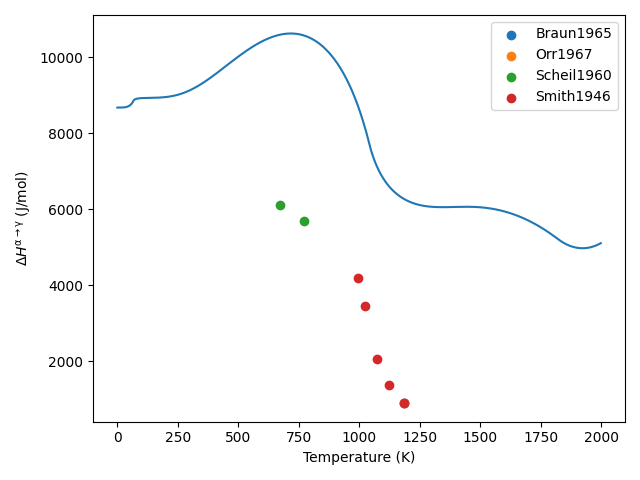
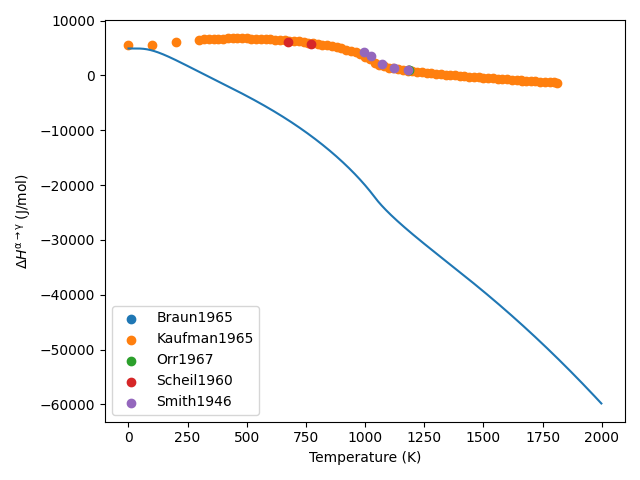
More work on the two-state energy model.

diff --git a/libreCalphad/models/segmented_regression.py b/libreCalphad/models/segmented_regression.py
@@ -57,16 +57,22 @@ aD = 5.133e-2
 
 
 def _twostate_Cp(T_arr, dE):
-    # assume for now dE is a f(T)
+    # Following the approach from Becker2013
     g0 = 1
     g1 = 1
 
     def _calc_twostate_Cp(T, dE):
+        if T == 0:
+            return 0
         if isinstance(dE, list):
-            dE = np.sum([dE[i] * T**i for i in range(len(dE))])
-        return (R * (dE / (R * T)) ** 2 * g0 / g1 * np.exp(dE / (R * T))) / (
-            g0 / g1 * np.exp(dE / (R * T)) + 1
-        ) ** 2
+            dE_sum = np.sum([dE[i] * T**i for i in range(len(dE))])
+            ddEdT = np.sum(
+                [dE[i + 1] * i * T ** (i - 1) for i in range(-1, len(dE) - 1)]
+            )
+            dH = -(T**2) * ddEdT
+            nom = R * (dE_sum / (R * T)) ** 2 * g0 / g1 * np.exp(dE_sum / (R * T))
+            num = (g0 / g1 * np.exp(dE_sum / (R * T)) + 1) ** 2
+            return nom / num
 
     if isinstance(T_arr, (int, float)):
         ret_arr = _calc_twostate_Cp(T_arr, dE)
@@ -100,8 +106,53 @@ def _twostate_gibbs(T_arr, dE, ret_expr=False):
     return ret_arr
 
 
+def _twostate_entropy(T_arr, dE, ret_expr=False):
+    # From Miodownik1970
+    g0 = 1
+    g1 = 1
+
+    def _calc_twostate_entropy(T, dE):
+        if isinstance(dE, list):
+            dE = np.sum([dE[i] * T**i for i in range(len(dE))])
+        alpha = g1 / g0 * np.exp(-dE / (R * T))
+        return R * (np.log(1 + alpha) - alpha / (1 + alpha) * dE / (R * T))
+
+    def _sympy_twostate_entropy(T, dE):
+        if isinstance(dE, list):
+            dE = np.sum([dE[i] * v.T**i for i in range(len(dE))])
+        alpha = g1 / g0 * se.exp(-dE / (v.R * v.T))
+        return v.R * (se.log(1 + alpha) - alpha / (1 + alpha) * dE / (v.R * v.T))
+
+    if isinstance(T_arr, (int, float)):
+        ret_arr = _calc_twostate_entropy(T_arr, dE)
+    elif ret_expr:
+        ret_arr = _sympy_twostate_entropy(None, dE)
+    else:
+        ret_arr = np.array([])
+        for T in T_arr:
+            ret_arr = np.append(ret_arr, _calc_twostate_entropy(T, dE))
+    return ret_arr
+
+
+def _twostate_enthalpy(T_arr, dE, ret_expr=False):
+    if ret_expr:
+        ret_arr = v.T * _twostate_entropy(T_arr, dE, ret_expr)
+    else:
+        if isinstance(T_arr, (int, float)):
+            ret_arr = T_arr * _twostate_entropy(T_arr, dE, ret_expr)
+        else:
+            ret_arr = np.array([])
+            for T in T_arr:
+                ret_arr = np.append(
+                    ret_arr, T * _calc_twostate_entropy(T, dE, ret_expr)
+                )
+    return ret_arr
+
+
 def _holzapfel_debye_Cp(T_arr, thetaD):
     def _calc_holzapfel_Cp(x):
+        if x == 0:
+            return 0
         term1 = 4 / aD * x**3 / (1 + x**3 / (aD * w0))
         term2 = -3 / (aD**2 * w0) * x**6 / (1 + x**3 / (aD * w0)) ** 2
         term3 = w1 * (f1 / x) ** 2 * np.exp(-f1 / x) / (1 - np.exp(-f1 / x)) ** 2
@@ -228,11 +279,16 @@ def _bent_cable_Cp(T_arr, beta_1, beta_2, tau, gamma):
         ) * _indfunc2(T, tau, gamma)
 
     if isinstance(T_arr, (int, float)):
+        if T_arr == 0:
+            return 0
         return beta_1 * T_arr + beta_2 * _q(T_arr, tau, gamma)
     else:
         ret_arr = np.array([])
         for T in T_arr:
-            Cp = beta_1 * T + beta_2 * _q(T, tau, gamma)
+            if T == 0:
+                Cp = 0
+            else:
+                Cp = beta_1 * T + beta_2 * _q(T, tau, gamma)
             ret_arr = np.append(ret_arr, Cp)
         return ret_arr
 
@@ -399,13 +455,18 @@ def _xiong_Cp(T_arr, beta, p, Tc):
             )
 
     if isinstance(T_arr, (int, float)):
+        if T_arr == 0:
+            return 0
         tau = T_arr / Tc
         return R * tau * _g(tau, p) * np.log(beta + 1)
     else:
         ret_arr = np.array([])
         for T in T_arr:
-            tau = T / Tc
-            Cp = R * tau * _g(tau, p) * np.log(beta + 1)
+            if T == 0:
+                Cp = 0
+            else:
+                tau = T / Tc
+                Cp = R * tau * _g(tau, p) * np.log(beta + 1)
             ret_arr = np.append(ret_arr, Cp)
         return ret_arr
 

diff --git a/libreCalphad/databases/LC-steels_validation/FE/FE-fit-fcc.py b/libreCalphad/databases/LC-steels_validation/FE/FE-fit-fcc.py
@@ -10,6 +10,7 @@ from libreCalphad.models.segmented_regression import (
     _holzapfel_debye_Cp,
     _xiong_Cp,
     _twostate_Cp,
+    _twostate_gibbs,
     calc_enthalpy,
     calc_entropy,
     create_espei_custom_refstate_stable,
@@ -77,7 +78,7 @@ de1 = model_dict["two-state"]["dE"][0][1]
 # S298 = calc_entropy(298.15, min_fits, xiong_params=xiong_params)
 # initialize a dataframe for the model
 df_model = pd.DataFrame()
-df_model["temperature"] = np.linspace(1, 1600, num=1000)
+df_model["temperature"] = np.linspace(1, 2000, num=1000)
 
 print("Optimized model parameters:")
 print(f"Theta_E={theta_Fe:4f}")
@@ -154,3 +155,17 @@ ax.set_ylabel("Heat Capacity (J/mol-K-atom)")
 ax.legend()
 fig.tight_layout()
 fig.savefig("./FE-Cp-FCC_A1.png")
+
+fig, ax = plt.subplots()
+ax.plot(df_model["temperature"], df_model["two-state"])
+fig.tight_layout()
+fig.savefig("./FE-Cp-twostate-FCC_A1.png")
+
+# Gibbs energies
+df_model["two-state-gibbs"] = _twostate_gibbs(df_model["temperature"], [de0, de1])
+
+fig, ax = plt.subplots()
+ax.plot(df_model["temperature"], df_model["two-state-gibbs"], label="Two-State")
+ax.legend()
+fig.tight_layout()
+fig.savefig("./FE-Gibbs-FCC_A1.png")

diff --git a/libreCalphad/databases/LC-steels_validation/FE/FE-test-fcc.py b/libreCalphad/databases/LC-steels_validation/FE/FE-test-fcc.py
@@ -28,12 +28,12 @@ cpm_res = calculate(
     dbf, components, phase, T=(0.5, 2000, 2), P=101325, N=1, output="heat_capacity"
 )
 ax.plot(cpm_res.T, cpm_res.heat_capacity.squeeze())
-for result in search_results:
-    ax.scatter(
-        result["conditions"]["T"],
-        np.array(result["values"]).squeeze(),
-        label=result["reference"],
-    )
+# for result in search_results:
+#     ax.scatter(
+#         result["conditions"]["T"],
+#         np.array(result["values"]).squeeze(),
+#         label=result["reference"],
+#     )
 ax.set_xlabel("Temperature (K)")
 ax.set_ylabel("Isobaric Heat Capacity (J/mol-formula-K)")
 ax.legend()
@@ -103,3 +103,13 @@ ax.set_ylabel("Entropy (J/mol-formula-K)")
 ax.legend()
 fig.tight_layout()
 plt.savefig(f"./SM-CALC-FE-{phase[0]}.png")
+
+# Gibbs plotting
+calc_res = calculate(
+    dbf, components, phase, T=(0.5, 2000, 2), P=101325, N=1, output="GM"
+)
+
+fig, ax = plt.subplots()
+ax.plot(calc_res.T, calc_res.GM.squeeze())
+fig.tight_layout()
+fig.savefig(f"./GM-CALC-{phase[0]}.png")
